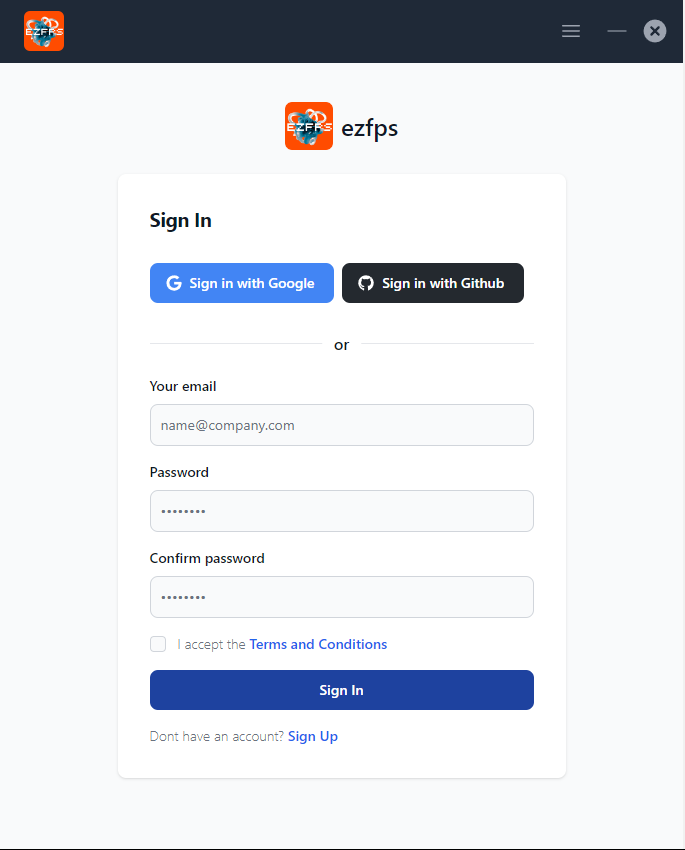
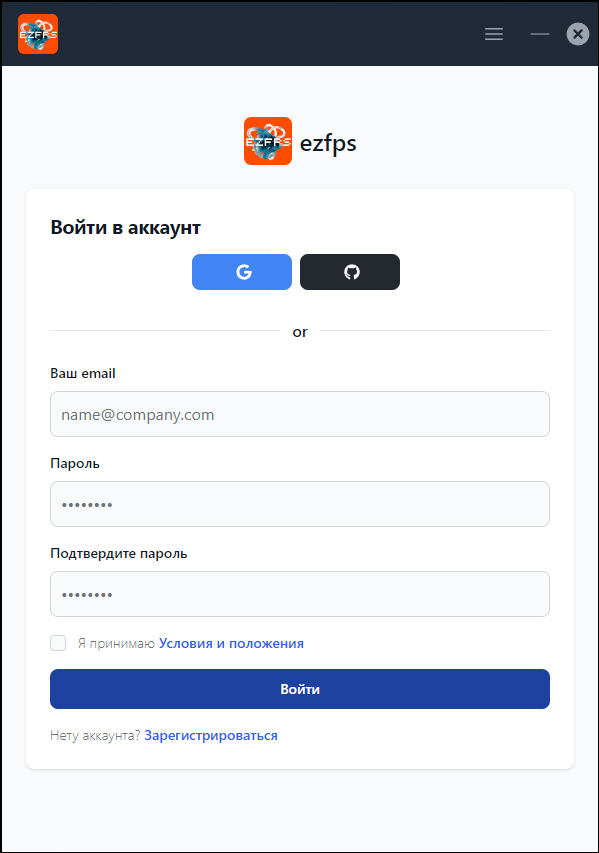
ываа

diff --git a/ezfps_store/content/1.introduction/1.getting-started.md b/ezfps_store/content/1.introduction/1.getting-started.md
@@ -45,9 +45,9 @@
 ![preview](https://www.ezfps.store/screenshot3.png)
 Откройте меню приложения и зайдите в раздел "Войти"
 ![preview](https://www.ezfps.store/screenshot4.png)
-Войдите или зарегистрируйтесь в приложении
+Войдите через Google, Github, email или зарегистрируйтесь в приложении
 ::
 
 ::alert{type="success"}
-✨ Well done! A browser window should automatically open for <http://localhost:3000>
+✨ Отлично, переходите к странице настройки!
 ::
